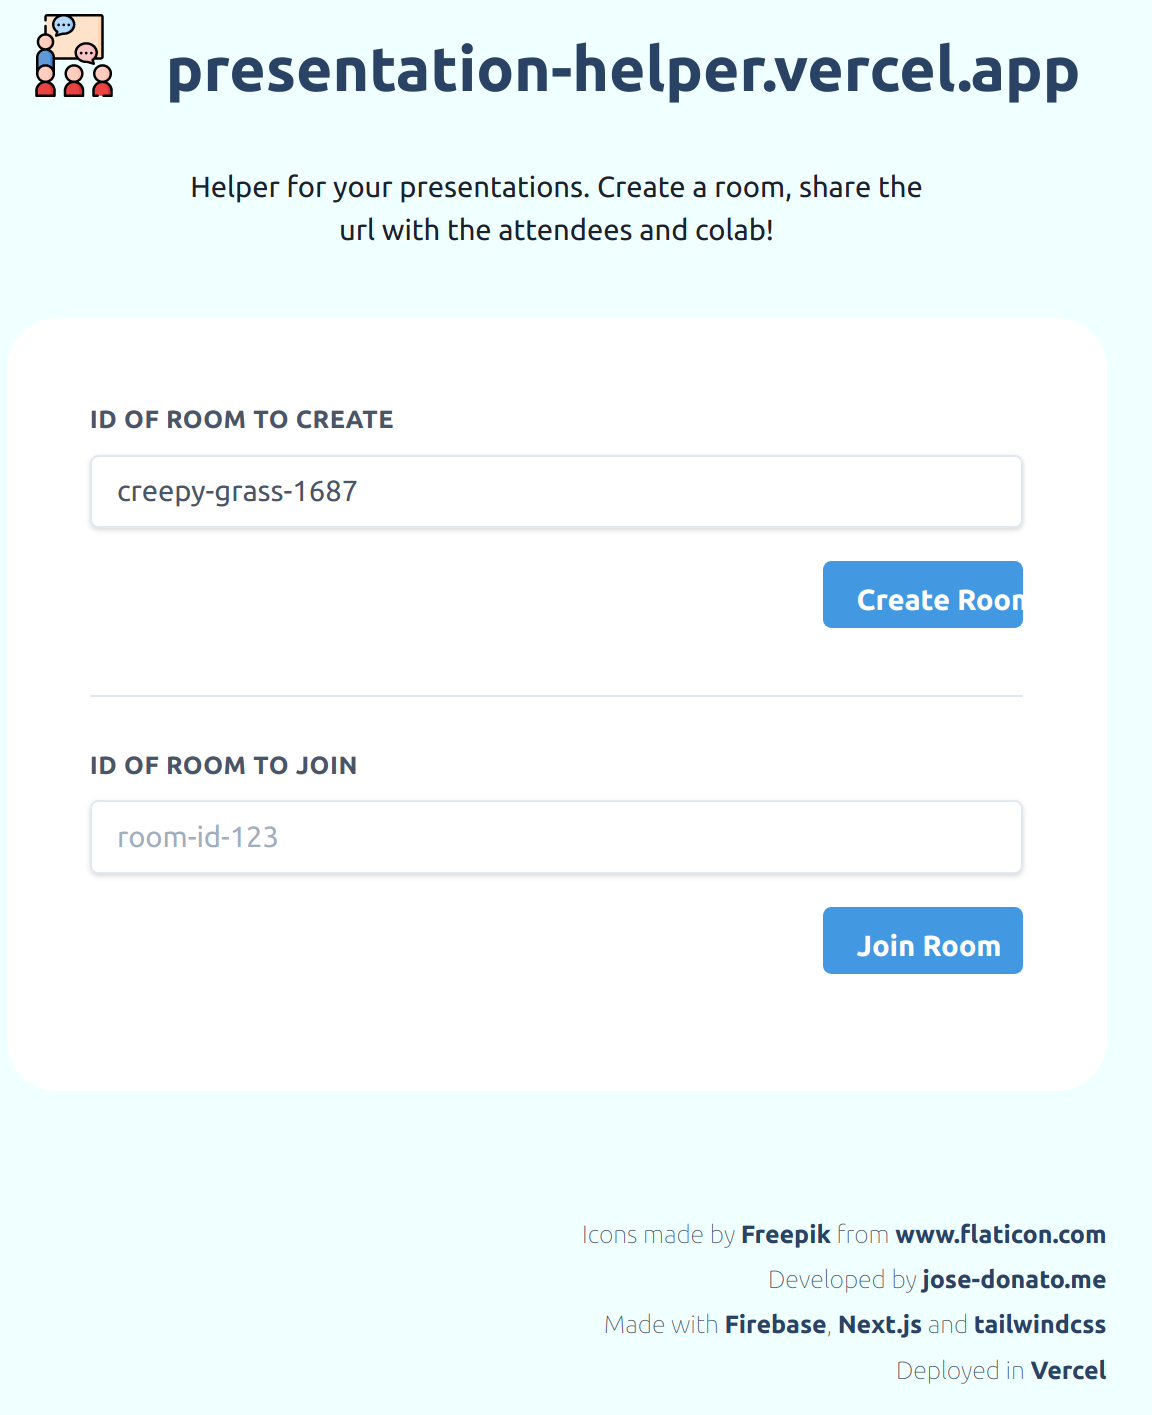
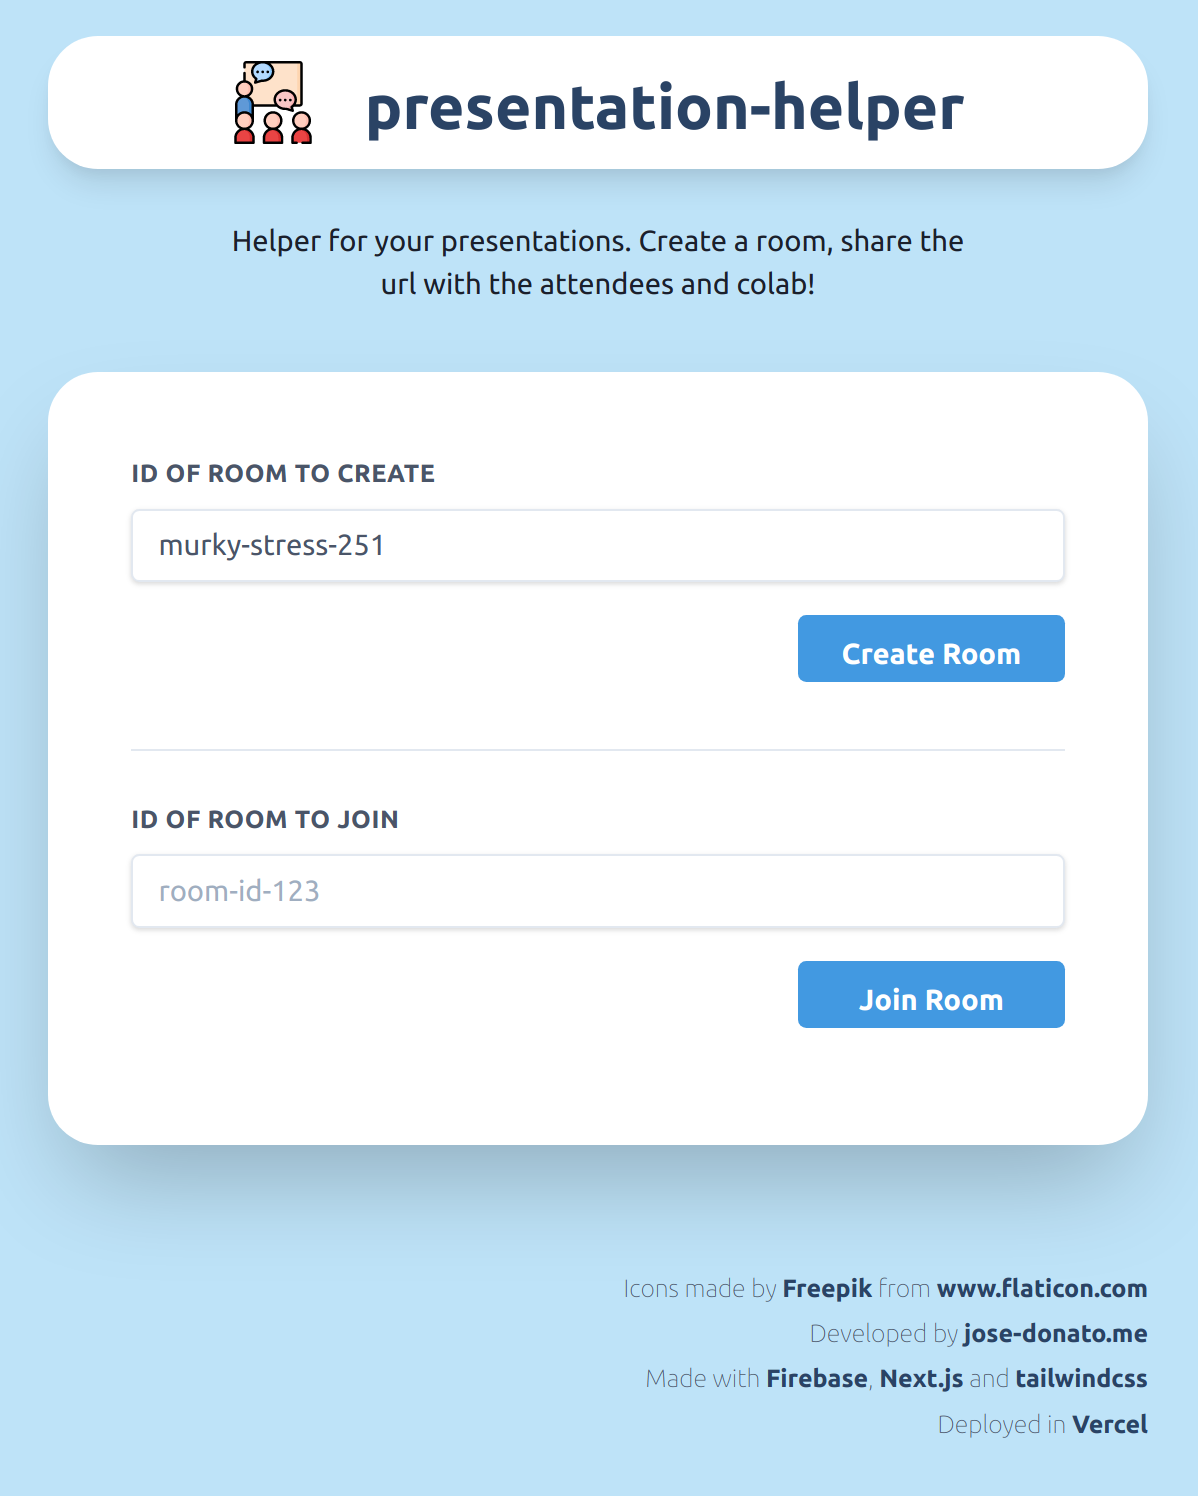
updated readme, layout and sw

diff --git a/public/offline.html b/public/offline.html
@@ -6,12 +6,12 @@
     <meta name="viewport" content="width=device-width, initial-scale=1.0">
     <title>presentation-helper</title>
 
-    <link rel="stylesheet" href="offline.css">
-    <meta name="theme-color" content="3d7cf9" data-meta="theme-color" />
+    <link rel="stylesheet" href="/offline.css">
+    <meta name="theme-color" content="#bee3f8" data-meta="theme-color" />
 
-    <meta name="msapplication-navbutton-color" content="3d7cf9" data-meta="theme-color" />
+    <meta name="msapplication-navbutton-color" content="#bee3f8" data-meta="theme-color" />
 
-    <meta name="apple-mobile-web-app-status-bar-style" content="3d7cf9" data-meta="theme-color" />
+    <meta name="apple-mobile-web-app-status-bar-style" content="#bee3f8" data-meta="theme-color" />
 
     <meta name="audience" lang="en" content="all" />
     <meta name="expires" content="3 days" />
@@ -20,10 +20,10 @@
     <meta name="page-topic" content="Productivity Tool" />
     <meta name="copyright" content="José Donato" />
     <meta name="author" content="José Donato" />
-    <meta name="description" content="Tool to help you and your attendees ace in presentations or workshops"/>
+    <meta name="description" content="Tool to help you and your attendees ace in presentations or workshops" />
     <meta name="keywords" content="collab, presentation, talk, rooms, workshops" />
 
-    <meta property="og:image" content="favicon.ico" />
+    <meta property="og:image" content="/favicon.ico" />
     <meta property="og:type" content="website" />
     <meta property="og:url" content="https://presentation-helper.vercel.app" />
     <meta property="og:site_name" content="presentation-helper" />
@@ -32,31 +32,33 @@
 
     <meta property="twitter:url" content="https://presentation-helper.vercel.app" />
     <meta property="twitter:title" content="presentation-helper" />
-    <meta property="twitter:description" content="Tool to help you and your attendees ace in presentations or workshops" />
-    <meta property="twitter:image" content="favicon.ico" />
+    <meta property="twitter:description"
+        content="Tool to help you and your attendees ace in presentations or workshops" />
+    <meta property="twitter:image" content="/favicon.ico" />
 
 
-    <link rel="icon" href="favicon.ico" />
-    <link rel="fluid-icon" href="favicon.ico" />
-    <link rel='shortcut icon' type='image/x-icon' href='favicon.ico' />
-    <link rel="apple-touch-icon" href="favicon.ico" />
-    <link rel="manifest" href="manifest.json" />
+    <link rel="icon" href="/favicon.ico" />
+    <link rel="fluid-icon" href="/favicon.ico" />
+    <link rel='shortcut icon' type='image/x-icon' href='/favicon.ico' />
+    <link rel="apple-touch-icon" href="/favicon.ico" />
+    <link rel="manifest" href="/manifest.json" />
 </head>
 
 <body>
     <div class="flex flex-col mx-auto max-w-xl py-5 content-center container px-6">
-        <header class="flex mb-6 justify-center">
-            <img class="h-10 mr-6" src="presentation.svg" alt="presentation-helper logo" />
+        <header class="flex mb-6 items-center justify-center rounded-3xl shadow-lg bg-white h-16">
+            <img class="h-10 mr-6" src="/presentation.svg" alt="presentation-helper logo" />
             <h1 class="text-2xl mt-1 sm:text-3xl text-blue-800 font-bold">
-                <a href="/">presentation-helper.vercel.app</a>
+                <a href="/">presentation-helper</a>
             </h1>
         </header>
         <main class="pb-5 text-gray-900 text-sm font-normal">
             <p class="mb-8 w-2/3 text-center mx-auto">Helper for your presentations. Create a room, share the url with
                 the attendees and colab!</p>
-            <div class="flex flex-col p-10 rounded-3xl content-center bg-white text-center">
-                <img src="offline.svg" class="h-10 mb-2" alt="offline icon" />
-                <p>You are currently offline, to use this tool (at least for now) you need to have a network connection!</p>
+            <div class="flex flex-col p-10 rounded-3xl content-center bg-white text-center shadow-2xl">
+                <img src="/offline.svg" class="h-10 mb-2" alt="offline icon" />
+                <p>You are currently offline, to use this tool (at least for now) you need to have a network connection!
+                </p>
             </div>
         </main>
         <footer class="">

diff --git a/components/Layout.js b/components/Layout.js
@@ -3,9 +3,9 @@ import Link from "next/link"
 const Layout = ({ children }) => {
     return <ToastProvider>
         <div className="flex flex-col mx-auto max-w-xl py-5 content-center container px-6">
-            <header className="flex mb-6 justify-center">
-                <img className="h-10 mr-6" src="/presentation.svg" alt="talkhelper logo" />
-                <h1 className="text-2xl mt-1 sm:text-3xl text-blue-800 font-bold"><Link href="/"><a>presentation-helper.vercel.app</a></Link></h1>
+            <header className="flex mb-6 items-center justify-center rounded-3xl shadow-lg bg-white h-16">
+                <img className="h-10 mr-6" src="/presentation.svg" alt="presentation-helper logo" />
+                <h1 className="text-xl mt-1 sm:text-3xl text-blue-800 font-bold"><Link href="/"><a>presentation-helper</a></Link></h1>
             </header>
             <main className="pb-5 text-gray-900 text-sm font-normal">
                 {children}

diff --git a/public/offline.css b/public/offline.css
@@ -652,6 +652,10 @@ video {
   flex-direction: column;
 }
 
+.items-center {
+  align-items: center;
+}
+
 .content-center {
   align-content: center;
 }
@@ -684,6 +688,10 @@ video {
 
 .h-10 {
   height: 2.5rem;
+}
+
+.h-16 {
+  height: 4rem;
 }
 
 .text-xs {
@@ -787,6 +795,14 @@ video {
 
 .left-0 {
   left: 0;
+}
+
+.shadow-lg {
+  box-shadow: 0 10px 15px -3px rgba(0, 0, 0, 0.1), 0 4px 6px -2px rgba(0, 0, 0, 0.05);
+}
+
+.shadow-2xl {
+  box-shadow: 0 25px 50px -12px rgba(0, 0, 0, 0.25);
 }
 
 .text-center {
@@ -902,7 +918,7 @@ body {
   margin: 0;
   font-family: -apple-system, BlinkMacSystemFont, Segoe UI, Roboto, Oxygen,
     Ubuntu, Cantarell, Fira Sans, Droid Sans, Helvetica Neue, sans-serif;
-  background-color: azure;
+  background-color: #bee3f8;
 }
 
 @media (min-width: 640px) {

diff --git a/components/forms/JoinRoom.js b/components/forms/JoinRoom.js
@@ -38,7 +38,7 @@ const JoinRoom = () => {
                 })} placeholder="room-id-123" className="shadow appearance-none border rounded w-full py-2 px-3 text-gray-700 leading-tight focus:outline-none focus:shadow-outline" type="text" />
                 {errors.joinSlug && <span className="flex items-center font-medium tracking-wide text-red-500 text-xs mt-2 ml-1">Room id cannot have spaces</span>}
             </div>
-            <input type="submit" id="joinRoomButton" className={`primaryButton self-end w-24 mb-4 mt-4`} value={submitting ? "Joining Room" : "Join Room"} />
+            <input type="submit" id="joinRoomButton" className={`primaryButton self-end w-32 mb-4 mt-4`} value={submitting ? "Joining Room" : "Join Room"} />
         </form>
     )
 }

diff --git a/pages/index.js b/pages/index.js
@@ -1,15 +1,11 @@
 import { Fragment } from 'react'
 import JoinRoom from "../components/forms/JoinRoom"
 import CreateRoom from "../components/forms/CreateRoom"
-import Head from "next/head"
 export default function Home() {
   return (
     <Fragment>
-        <Head>
-          <title>{`Homepage | presentation-helper`}</title>
-        </Head>
       <p className="mb-8 w-2/3 text-center mx-auto">Helper for your presentations. Create a room, share the url with the attendees and colab!</p>
-      <div className="flex flex-col p-10 rounded-3xl content-center bg-white divide-y">
+      <div className="flex flex-col p-10 rounded-3xl content-center bg-white divide-y shadow-2xl">
         <CreateRoom />
         <JoinRoom />
       </div>

diff --git a/components/forms/CreateRoom.js b/components/forms/CreateRoom.js
@@ -44,7 +44,7 @@ const CreateRoom = () => {
         })} className="shadow appearance-none border rounded w-full py-2 px-3 text-gray-700 leading-tight focus:outline-none focus:shadow-outline" type="text" />
         {errors.createSlug && <span className="flex items-center font-medium tracking-wide text-red-500 text-xs mt-2 ml-1">Room id cannot have spaces</span>}
       </div>
-      <input type="submit" id="createRoomButton" className={`primaryButton self-end w-24 mb-4 mt-4`} value={submitting ? "Creating Room" : "Create Room"} />
+      <input type="submit" id="createRoomButton" className={`primaryButton self-end w-32 mb-4 mt-4`} value={submitting ? "Creating Room" : "Create Room"} />
     </form>
   )
 }

diff --git a/pages/room/[slug].js b/pages/room/[slug].js
@@ -64,7 +64,7 @@ export default function Room({ room }) {
             </div>
         </div>
         {isQRCodeOpen && <QRCodePopup close={() => setIsQRCodeOpen(false)} ref={QRCodePopupRef} value={shareUrl} />}
-        <div className="flex flex-col p-10 rounded-3xl content-center bg-white">
+        <div className="flex flex-col p-10 rounded-3xl shadow-2xl content-center bg-white">
             <div className="flex flex-row mb-6">
                 <button className={`${index === 0 ? " bg-blue-500 text-white" : "bg-blue-200"} hover:bg-blue-200 px-2 py-1 rounded focus:outline-none mr-4`} onClick={() => setIndex(0)}>
                     Links

diff --git a/pages/_app.js b/pages/_app.js
@@ -18,13 +18,8 @@ function MyApp({ Component, pageProps }) {
       window.addEventListener("load", function () {
         navigator.serviceWorker.register("/sw.js").then(
           function (registration) {
-            console.log(
-              "Service Worker registration successful with scope: ",
-              registration.scope
-            );
           },
           function (err) {
-            console.log("Service Worker registration failed: ", err);
           }
         );
       });

diff --git a/pages/_document.js b/pages/_document.js
@@ -4,7 +4,7 @@ const title = "presentation-helper";
 const description = "Tool to help you and your attendees ace in presentations."
 const url = "https://presentation-helper.vercel.app"
 const author = "José Donato"
-const color = "#3d7cf9"
+const color = "#bee3f8"
 const type = "Productivity Tool"
 const keywords = "collab, presentation, talk, rooms, workshops"
 

diff --git a/styles/globals.css b/styles/globals.css
@@ -41,7 +41,7 @@ body {
   margin: 0;
   font-family: -apple-system, BlinkMacSystemFont, Segoe UI, Roboto, Oxygen,
     Ubuntu, Cantarell, Fira Sans, Droid Sans, Helvetica Neue, sans-serif;
-  background-color: azure;
+  background-color: #bee3f8;
 }
 
 

diff --git a/public/sw.js b/public/sw.js
@@ -1,4 +1,4 @@
-const CACHE_NAME = 'cache-v1'
+const CACHE_NAME = 'cache-v9'
 
 const filesToCache = [
   'offline.html',

diff --git a/README.md b/README.md
@@ -55,25 +55,30 @@ NEXT_PUBLIC_FIREBASE_PROJECT_ID="YYY"
 ### App preview
 > The application is live, you can try it [here](https://presentation-helper.vercel.app)
 
-![Homepage screen](docs/images/homepage.png)
-![Room screen](docs/images/room.png)
-
+<img src="docs/images/homepage.png" width="400" alt="Homepage screen" >
+<br>
+<img src="docs/images/room.png" width="400" alt="Room screen" >
+<br>
+<img src="docs/images/offline.png" width="400" alt="Offline screen" >
 
 
 ### Scores
 > carbon - https://www.websitecarbon.com/website/presentation-helper-vercel-app/ 
-![Carbon results](docs/images/carbon.png)
 
+<img src="docs/images/carbon.png" width="400" alt="Carbon results">
+
+
+<br>
 > lighthouse - 
-![Carbon results](docs/images/carbon.png)
 
+<img src="docs/images/carbon.png" width="400" alt="Carbon results">
 
 ### Funding
 I'm starting my career and at the same time finishing my masters' in Cyber Security. If I helped you in any way please consider to support me in [GitHub](https://github.com/sponsors/jose-donato) or [by buying me a coffee](https://www.buymeacoffee.com/josedonato).
 
 
 ### Contributing
-Contributions are welcomed. 
+Contributions are welcomed. Feel free to PR or open an issue with ideas/bugs found.
 
 
 ### License
